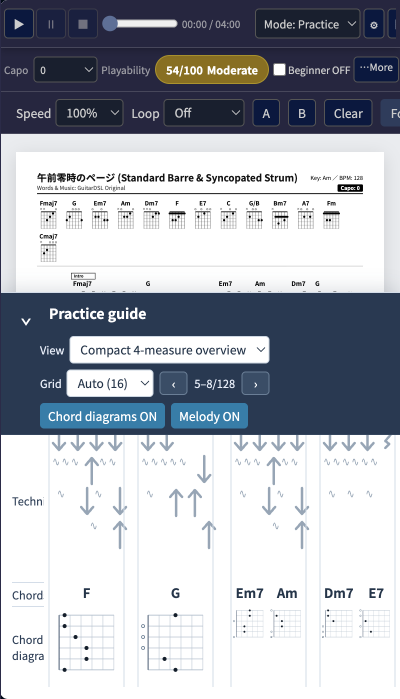
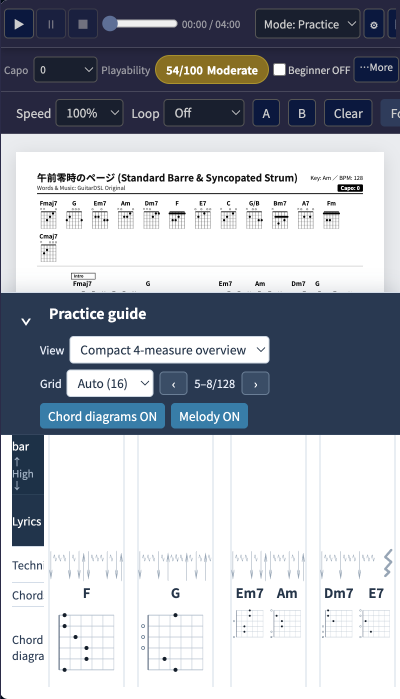
fix: keep compact stroke patterns horizontal

diff --git a/tests/e2e/extension.test.ts b/tests/e2e/extension.test.ts
@@ -2051,7 +2051,7 @@ suite('GuitarDSL Extension E2E Test Suite', () => {
     });
   });
 
-  test('Issue #162 compact technique SVG grows shared rows for dense events', async function () {
+  test('Issue #162 compact technique SVG keeps dense events in one horizontal row', async function () {
     this.timeout(60000);
     await withWorkbenchSnapshotRestored(async () => {
       const denseRhythm = Array.from({ length: 16 }, (_, index) => `16.${index % 2 === 0 ? 'd' : 'u'}`).join(' ');
@@ -2104,14 +2104,30 @@ suite('GuitarDSL Extension E2E Test Suite', () => {
                 const symbols = [...lane.querySelectorAll('.practice-guide-compact-symbol')]
                   .filter(symbol => getComputedStyle(symbol).display !== 'none')
                   .map(symbol => {
-                  const match = (symbol.getAttribute('transform') || '').match(/translate\(([-\d.]+)\s+([-\d.]+)\)/);
-                  return { row: Number(symbol.dataset.guideRow) || 0, x: Number(match?.[1]), width: Number(symbol.dataset.guideLayoutWidth) };
+                   const translate = (symbol.getAttribute('transform') || '').split(')')[0].split('(')[1] || '';
+                   const [x, y] = translate.trim().split(' ').map(Number);
+                   const width = Number(symbol.dataset.guideLayoutWidth);
+                   const packedWidth = Number(symbol.dataset.guideLayoutPackedWidth);
+                   return {
+                     row: Number(symbol.dataset.guideRow),
+                      x,
+                      y,
+                     width: Math.min(width, packedWidth),
+                     hasPackedWidth: Number.isFinite(packedWidth) && packedWidth > 0
+                   };
                 });
                 const rowCount = symbols.length ? Math.max(...symbols.map(symbol => symbol.row)) + 1 : 0;
-                const collisions = symbols.reduce((count, item, index) => count + symbols.slice(index + 1)
-                  .filter(next => item.row === next.row
-                    && item.x < next.x + next.width + 2 && next.x < item.x + item.width + 2).length, 0);
-                return { height: Number(lane.dataset.guideLaneHeight), rowCount, collisions, symbolCount: symbols.length };
+                 const orderedSymbols = [...symbols].sort((a, b) => a.x - b.x || a.y - b.y);
+                 const collisions = orderedSymbols.slice(0, -1).reduce((count, item, index) =>
+                   count + (item.row === orderedSymbols[index + 1].row
+                     && item.x + item.width > orderedSymbols[index + 1].x + 0.05 ? 1 : 0), 0);
+                 const sameY = symbols.every(symbol => Math.abs(symbol.y - symbols[0]?.y) <= 0.001);
+                 const fits = symbols.every(symbol => symbol.x >= 4.999 && symbol.x + symbol.width <= Number(card.style.width.replace('px', '')) - 4.999);
+                 return {
+                   height: Number(lane.dataset.guideLaneHeight), rowCount, collisions,
+                   symbolCount: symbols.length, sameY, fits,
+                   packed: symbols.every(symbol => symbol.hasPackedWidth)
+                 };
               });
               const techniqueLabel = document.querySelector('.practice-guide-label[data-guide-lane="technique"]');
               const techniqueLabelHeight = techniqueLabel && getComputedStyle(techniqueLabel).display !== 'none'
@@ -2122,16 +2138,15 @@ suite('GuitarDSL Extension E2E Test Suite', () => {
               `${width}px / ${grid}-grid / melody ${melodyVisible ? 'on' : 'off'} retains four measures`);
             assert.deepStrictEqual(geometry.laneOrder, ['ruler', 'melody', 'lyrics', 'technique', 'chord', 'diagrams'],
               `${width}px keeps the compact lane order in every measure SVG`);
-            assert.ok(geometry.techniqueLanes.every((lane: { height: number; rowCount: number; collisions: number; symbolCount: number }) =>
-              lane.symbolCount > 0 && lane.height >= lane.rowCount * 32 + 4 && lane.collisions === 0),
-            `${width}px / ${grid}-grid / melody ${melodyVisible ? 'on' : 'off'} allocates non-overlapping technique rows: ${JSON.stringify(geometry.techniqueLanes)}`);
+            assert.ok(geometry.techniqueLanes.every((lane: { height: number; rowCount: number; collisions: number; symbolCount: number; sameY: boolean; fits: boolean; packed: boolean }) =>
+              lane.symbolCount > 0 && lane.rowCount === 1 && lane.height === 36
+                && lane.collisions === 0 && lane.sameY && lane.fits && lane.packed),
+            `${width}px / ${grid}-grid / melody ${melodyVisible ? 'on' : 'off'} keeps every technique symbol on one horizontal, non-overlapping row inside its card: ${JSON.stringify(geometry.techniqueLanes)}`);
             assert.ok(geometry.techniqueLanes.every((lane: { height: number }, index: number) =>
               index === 0 || Math.abs(lane.height - geometry.techniqueLanes[0].height) <= 0.5),
             `${width}px / ${grid}-grid shares the tallest technique lane across all four measure SVGs`);
             assert.ok(Math.abs(geometry.techniqueLabelHeight - geometry.techniqueLanes[0].height) <= 1,
               `${width}px / ${grid}-grid aligns the technique label row with the shared SVG lane height`);
-            if (width <= 600) assert.ok(geometry.techniqueLanes[0].rowCount > 1,
-              `${width}px / ${grid}-grid stacks dense 16th-note events vertically`);
             }
           }
         }

diff --git a/src/render/previewHtml.ts b/src/render/previewHtml.ts
@@ -2168,6 +2168,34 @@ ${cspMeta}
             maxRows.chord = Math.max(maxRows.chord, ordered.length > 0 ? 1 : 0);
             return;
           }
+          if (lane === 'technique') {
+            const starts = ordered.map(item => inset + item.beat / measureBeats * Math.max(0, slotWidth - inset * 2));
+            for (let index = 0; index < ordered.length;) {
+              let groupEnd = index + 1;
+              while (groupEnd < ordered.length && Math.abs(ordered[groupEnd].beat - ordered[index].beat) < 0.000001) {
+                groupEnd++;
+              }
+              const startX = starts[index];
+              const nextLeft = groupEnd < starts.length ? starts[groupEnd] : slotWidth - inset;
+              const groupCount = groupEnd - index;
+              const stepWidth = Math.max(0.001, (nextLeft - startX) / groupCount);
+              const gap = stepWidth >= 3 ? 2 : 0;
+              const packedWidth = Math.max(0.001, stepWidth - gap);
+              for (let groupIndex = index; groupIndex < groupEnd; groupIndex++) {
+                const item = ordered[groupIndex];
+                const itemX = startX + (groupIndex - index) * stepWidth;
+                const itemWidth = Math.min(item.width, packedWidth);
+                for (const node of item.nodes) {
+                  node.dataset.guideRow = '0';
+                  node.dataset.guideLayoutX = String(itemX);
+                  node.dataset.guideLayoutPackedWidth = String(itemWidth);
+                }
+              }
+              index = groupEnd;
+            }
+            maxRows.technique = Math.max(maxRows.technique, ordered.length > 0 ? 1 : 0);
+            return;
+          }
           for (const item of ordered) {
             const x = inset + item.beat / measureBeats * Math.max(0, slotWidth - inset * 2);
             const centerX = Math.max(inset + item.width / 2, Math.min(slotWidth - inset - item.width / 2, x));
@@ -2291,6 +2319,8 @@ ${cspMeta}
             else live.dataset.guideRow = source.dataset.guideRow;
             if (source.dataset.guideLayoutX === undefined) delete live.dataset.guideLayoutX;
             else live.dataset.guideLayoutX = source.dataset.guideLayoutX;
+            if (source.dataset.guideLayoutPackedWidth === undefined) delete live.dataset.guideLayoutPackedWidth;
+            else live.dataset.guideLayoutPackedWidth = source.dataset.guideLayoutPackedWidth;
             if (source.dataset.guideLayoutWidth !== undefined) {
               live.dataset.guideLayoutWidth = source.dataset.guideLayoutWidth;
             }
@@ -2351,7 +2381,10 @@ ${cspMeta}
             fitCompactSvgText(text || item, Math.max(0, slotWidth - x - 5));
           } else if (lane === 'technique') {
             const markWidth = Math.max(1, Number(item.dataset.guideLayoutWidth) || 12);
-            const availableWidth = Math.max(0.001, slotWidth - x - 5);
+            const availableWidth = Math.max(0.001, Math.min(
+              Number(item.dataset.guideLayoutPackedWidth) || markWidth,
+              slotWidth - x - 5
+            ));
             const scaleX = Math.min(1, availableWidth / markWidth);
             item.setAttribute('transform', 'translate(' + x.toFixed(3) + ' ' + (rowY + 3).toFixed(3)
               + ') scale(' + scaleX.toFixed(4) + ' 1)');

diff --git a/docs/status/implementation-status.md b/docs/status/implementation-status.md
@@ -10,12 +10,12 @@
 
 ## Issue #162: 練習ガイド4小節SVG表示・複数継続記号・テンポ連動クロスフェード
 
-- **状態**: 承認済みImplementation Contract v2を実装し、PR #163の最新レビュー指摘3件を修正した。[PR #163](https://github.com/puchinya/vscode-guitar-dsl/pull/163) はopen。レビュー・CI・current-HEAD self-reviewの最新状態はPR記録を参照。
+- **状態**: 承認済みImplementation Contract v2を実装し、PR #163のレビュー指摘に加えて、コードダイアグラムと奏法記号を横一列にするユーザー指示を反映した。[PR #163](https://github.com/puchinya/vscode-guitar-dsl/pull/163) はopen。レビュー・CI・current-HEAD self-reviewの最新状態はPR記録を参照。
[1 lines of base64/hex data omitted]
 - **仕様 / 設計 / Help**: `docs/specs/gui_design.md` §2.4、`docs/specs/extension.md` §4.6、`docs/design/preview-rendering-and-export.md` を更新。英語・日本語Helpとmanifestを同期し、生成済み `media/help/` も更新した。
-  - **実装**: コンパクト表示を単一SVG座標系へ統一し、実測幅で等幅4スロットを配置する。コードダイアグラムは必ず小節内の横一列に置き、コード区間と隣接ダイアグラムの間隔に合わせて幅を調整してカード境界内に収める。コード名も同じ時間位置に合わせる。コード省略時は再生出現ごとに直前コードと図を引き継ぎ、明示的な `N.C.` で解除する。継続波は選択グリッドと現在Fractionの1マークだけをcurrent表示する。細いviewportでの奏法記号折返しとカード内縮小、次コード領域の維持、TAB/リズムtie記号とFraction波線、実効BPMに応じた450–900ms fade、fade timer cleanupとreduced-motionも実装した。
-- **画面証拠**: [60枚の実Previewキャプチャと検査条件](evidence/issue-162/README.md)に加えて、レビュー指摘用に400pxの短いコード区間と実サンプル `sample_gozen0jino_page` を撮影した。E2Eは2/3/4コードの名前・図ペア、図と文字の実DOM境界、指押さえ点、横並び、隣接図の非重複を検査する。
-- **検証**: macOS arm64 / VS Code 1.144.0。`check:help` / `check:ai` PASS、unit **1,229件PASS**。現行テストでのIssue #162 focused E2Eは **10件PASS**。全体 `npm test` の最新実行はE2E **9件PASS / 6件pending / 3件FAIL** で、Extension Development Hostの前面化timeoutが発生して完走しなかった。320–1600px、グリッド4/8/16、密集奏法、rhythm/TAB tie、継続波の16分位置とexclusive end、400pxコード図横並び・境界・repeat/volta再生順コード継承、実効テンポfade、速度変更、Pause/Resume、seek、resize、compact/detail切替、AB loop、pagehide disposal、fallback timer、reduced-motionを確認した。全体E2Eの未解決結果はPASSとは扱わない。
+  - **実装**: コンパクト表示を単一SVG座標系へ統一し、実測幅で等幅4スロットを配置する。コードダイアグラムは必ず小節内の横一列に置き、コード区間と隣接ダイアグラムの間隔に合わせて幅を調整してカード境界内に収める。コード名も同じ時間位置に合わせる。奏法記号は密度やグリッドにかかわらず一段の時間順に並べ、同時刻記号はその時間セル内で横に配分する。記号幅は次の時刻までの空きに合わせて調整する。コード省略時は再生出現ごとに直前コードと図を引き継ぎ、明示的な `N.C.` で解除する。継続波は選択グリッドと現在Fractionの1マークだけをcurrent表示する。次コード領域の維持、TAB/リズムtie記号とFraction波線、実効BPMに応じた450–900ms fade、fade timer cleanupとreduced-motionも実装した。
+- **画面証拠**: [60枚の実Previewキャプチャと検査条件](evidence/issue-162/README.md)に加えて、レビュー指摘用の400px短コード区間と実サンプル `sample_gozen0jino_page` を撮影した。実サンプル画像ではコード図とストローク記号の両方が横並びになっている。E2Eは2/3/4コードの名前・図ペア、図と文字の実DOM境界、指押さえ点、横並び、隣接図の非重複を検査する。
+- **検証**: macOS arm64 / VS Code 1.144.0。最終 `npm test` は `check:help` / `check:ai` PASS、unit **1,229件PASS**、VS Code E2E **126件PASS・6件pending・0件FAIL**。コンパクト奏法のfocused E2Eも **1件PASS**。320–1600px、グリッド4/8/16、メロディON/OFFで、密集奏法の一段配置、同じY座標、横重なりなし、全記号のカード内配置と36px固定レーンを確認した。rhythm/TAB tie、継続波の16分位置とexclusive end、400pxコード図横並び・境界・repeat/volta再生順コード継承、実効テンポfade、速度変更、Pause/Resume、seek、resize、compact/detail切替、AB loop、pagehide disposal、fallback timer、reduced-motionも確認した。6件は既存pending。Windows/Linux、VoiceOver/NVDAはNOT RUN。
 - **PR / Completion Report**: [PR #163](https://github.com/puchinya/vscode-guitar-dsl/pull/163)。レビュー・CIの最新状態はPR記録を参照。Windows/Linux、VoiceOver/NVDAの手動確認はNOT RUN。
 
 ## Issue #160: 歌唱ブラケットとギター譜表ブレース

diff --git a/docs/design/preview-rendering-and-export.md b/docs/design/preview-rendering-and-export.md
@@ -166,13 +166,13 @@ The Preview retains HTML/CSS for operation controls, settings, page navigation, 
 
 The slot width is derived from the measured compact page: `max(0, (pageWidth - 16) / 4)`. The two within-bank gaps are 4 px each and the between-bank gap is 8 px; fractional remainder goes to the final slot. Chord text, symbol count, lyric length, and diagram size do not widen a slot. The page has no compact horizontal scrolling or active-occurrence auto-follow. At 480 px or narrower, the next-chord name and square diagram move into an upper band within the guide and the lower region uses a 44 px label rail plus the four slots. At 481 px and wider, the next-chord aside stays on the right. The chord diagram is a nested SVG retaining the shared 144×144 voicing viewBox, scaled to `min(144px, slotWidth - 10px)`; the next-chord diagram is 44–52 px square.
 
-Compact lane height is stable across bank changes. For each selected grid and measured slot width, all candidate written measures are evaluated; each lane uses the maximum row count. Within a measure, collision packing processes `(Fraction onset, event index, item order)` and assigns the first row whose occupied visual rectangles are at least 2 px apart. If text does not fit, only text is ellipsized; its full value remains on the node's `title` and accessible name. Musical events, technique marks, continuation waves, and chord diagrams remain present. Width/grid/visibility/document changes remeasure and reposition SVG content through the existing `syncPracticeGuidePanelGeometry()` RAF; no separate resize scheduler is introduced.
+Compact lane height is stable across bank changes. For each selected grid and measured slot width, all candidate written measures are evaluated. Lyrics and other colliding text use the maximum required row count and collision packing processes `(Fraction onset, event index, item order)`, assigning the first row whose occupied visual rectangles are at least 2 px apart. Technique marks always use one horizontal row in onset order; simultaneous marks are placed in item order within their shared time cell, and each mark is scaled horizontally to fit before the next mark. Chord names and diagrams stay paired in one horizontal row, centered in their chord intervals. If text does not fit, only text is ellipsized; its full value remains on the node's `title` and accessible name. Musical events, technique marks, continuation waves, and chord diagrams remain present. Width/grid/visibility/document changes remeasure and reposition SVG content through the existing `syncPracticeGuidePanelGeometry()` RAF; no separate resize scheduler is introduced.
 
 `buildPracticeGuideData()` already projects Fraction continuation offsets. Compact rendering draws one independent vector wave path for every continuation event matching the selected grid, located at its continuation beat rather than its attack onset. A stable identity is `(measure, eventIndex, grid, Fraction)`; duplicates at that identity are removed, while simultaneous events from separate source events remain independent. Rests, mute, ghost/brush/percussive events, and staccato do not continue. A tied event has no extra attack and has one wave at the tie start plus waves at subsequent valid grid positions. The visible wave is a short path whose width and stroke are adjusted to the cell; it is never stretched into a substitute for multiple continuations. Detailed-grid wave placement is unchanged.
 
 At normal playback bank boundaries, only the previously played bank is replaced and faded; the other bank's DOM, geometry, playhead, and highlights remain stable. At transition start, the receiving `PlaybackHtmlOccurrence.tempoBpm` and current `effectiveSpeed()` are snapshotted to derive `effectiveBpm`; `fadeMs` is `clamp(round(60000 / effectiveBpm), 450, 900)`, or 600 ms for invalid BPM. Both opacity layers receive the same per-transition duration, and fallback cleanup runs at `fadeMs + 80 ms`. A speed/tempo change during a fade affects only the next transition. Initial projection, manual page navigation, seek, loop recovery, resize, document/mode rebuild, reduced motion, and disposal use immediate projection. Existing generation and cancellation ownership rejects stale rAF, timer, and transition callbacks. Pause/resume does not start a second fade. Transition state is visual only and does not affect audio or score time.
 
-The verification contract covers 320 / 360 / 400 / 421 / 480 / 600 / 840 / 1100 / 1600 CSS px, exact four-slot containment, 400 px DOM measurements, grid4/8/16 continuation identity, dense vertical row packing, voicing, JA/EN and light/dark presentation, melody/diagram toggles, BPM/speed snapshots, reduced motion, and non-regression of detailed grid, normal score SVG, PDF, DSL, and playback. Workbench screenshots and geometry measurements are recorded separately from unit assertions.
+The verification contract covers 320 / 360 / 400 / 421 / 480 / 600 / 840 / 1100 / 1600 CSS px, exact four-slot containment, 400 px DOM measurements, grid4/8/16 continuation identity, one-row dense technique layout with no overlaps, collision-packed lyric rows, voicing, JA/EN and light/dark presentation, melody/diagram toggles, BPM/speed snapshots, reduced motion, and non-regression of detailed grid, normal score SVG, PDF, DSL, and playback. Workbench screenshots and geometry measurements are recorded separately from unit assertions.
 
 ### Practice Guide panel geometry synchronization (Issue #158 review)
 

diff --git a/docs/specs/gui_design.md b/docs/specs/gui_design.md
@@ -122,7 +122,7 @@ Practice が有効なときは既存の再生行、楽譜設定行、42 px Pract
 
 コンパクト表示は常に4小節容量を保ち、実際にある演奏出現だけを表示する。各カードの幅はページ実幅 `W` から `slotWidth = max(0, (W - 16) / 4)` で均等配分し、余りは最後のslotに足す。カード間は4 px、bank間は8 pxとし、文字列長、奏法数、コード図で幅を増やさない。320 / 360 / 400 / 421 / 480 / 600 / 840 / 1100 / 1600 CSS pxの全幅で4slotを同じ可視範囲へ収め、横overflowは1 px以下とする。コンパクト表示に横スクロールを設けない。次コード帯の名前と正方形図を含め、400 pxでも番号と全5レーンの情報を視認可能にする。
 
-幅480 px以下は次コード帯をガイド内の上段に配置し、下段を `44px minmax(0, 1fr)` のレーン名と4小節にする。幅481 px以上は右欄を保つ。固定スケールでストリップ全体を縮小せず、カード内コード図は `min(144px, slotWidth - 10px)`、次コード図は44～52 pxの正方形にする。狭さはレーン内の縦行追加で解消する。各レーンは全曲の候補小節を同じslot幅・gridで評価した最大行数を共有する。2 px以上の間隔で安定した `(Fraction onset, event index, item order)` 順に行を割り当てる。長い文字列だけを省略記号で切り、元の文字列は `title` とARIAから取得可能にする。音符、奏法、継続記号、コード図は省略しない。
+幅480 px以下は次コード帯をガイド内の上段に配置し、下段を `44px minmax(0, 1fr)` のレーン名と4小節にする。幅481 px以上は右欄を保つ。固定スケールでストリップ全体を縮小せず、カード内コード図は `min(144px, slotWidth - 10px)`、次コード図は44～52 pxの正方形にする。歌詞など重なりを避ける必要があるレーンは縦行を追加し、候補小節の最大行数を共有する。奏法記号は常に一段の時間順で横に並べ、同時刻の記号は入力順で配置する。各記号の幅は次の記号までの空きに収め、幅が狭いときは横方向に縮める。コード名と図は各コード区間の中央で横一列に対応させる。長い文字列だけを省略記号で切り、元の文字列は `title` とARIAから取得可能にする。音符、奏法、継続記号、コード図は省略しない。
 
 各小節SVGは小節番号、メロディ、歌詞、奏法、コード名、コード図、小節線、playheadを拍のFractionと共通x変換で描く。コード名と図はコードの有効区間の中点に揃え、同じ共有voicingから作った144×144 viewBoxの図をネストSVGで縮小する。各要素は演奏UIが必要とする小節、event、beat、verse、chordの `data-*` を維持する。幅、grid、表示切替、文書更新後の計測・SVG配置・高さ同期は、既存 `syncPracticeGuidePanelGeometry()` のRAFへまとめる。
 

diff --git a/docs/status/evidence/issue-162/README.md b/docs/status/evidence/issue-162/README.md
@@ -31,3 +31,5 @@ The compact chord edge regression uses 2, 3, and 4 chord intervals in one four-m
 - [EN Dark, 400 px, short chord spans and compact diagrams](practice-guide-compact-chord-bounds-issue162-en-dark-400.png)
 - [EN Dark, 400 px, `sample_gozen0jino_page` with horizontal chord diagrams](practice-guide-horizontal-sample-issue162-en-dark-400.png)
 - The EN Dark 400 px continuation-grid captures for grids 4, 8, and 16 were refreshed while running the same current-HEAD review E2E.
+
+The `sample_gozen0jino_page` capture also verifies that dense stroke symbols remain in one horizontal row in the compact guide. A focused E2E checks the same invariant at 320–1600 CSS px, grids 4 / 8 / 16, and melody on/off, including symbol Y alignment, non-overlap, and containment within each measure card.
